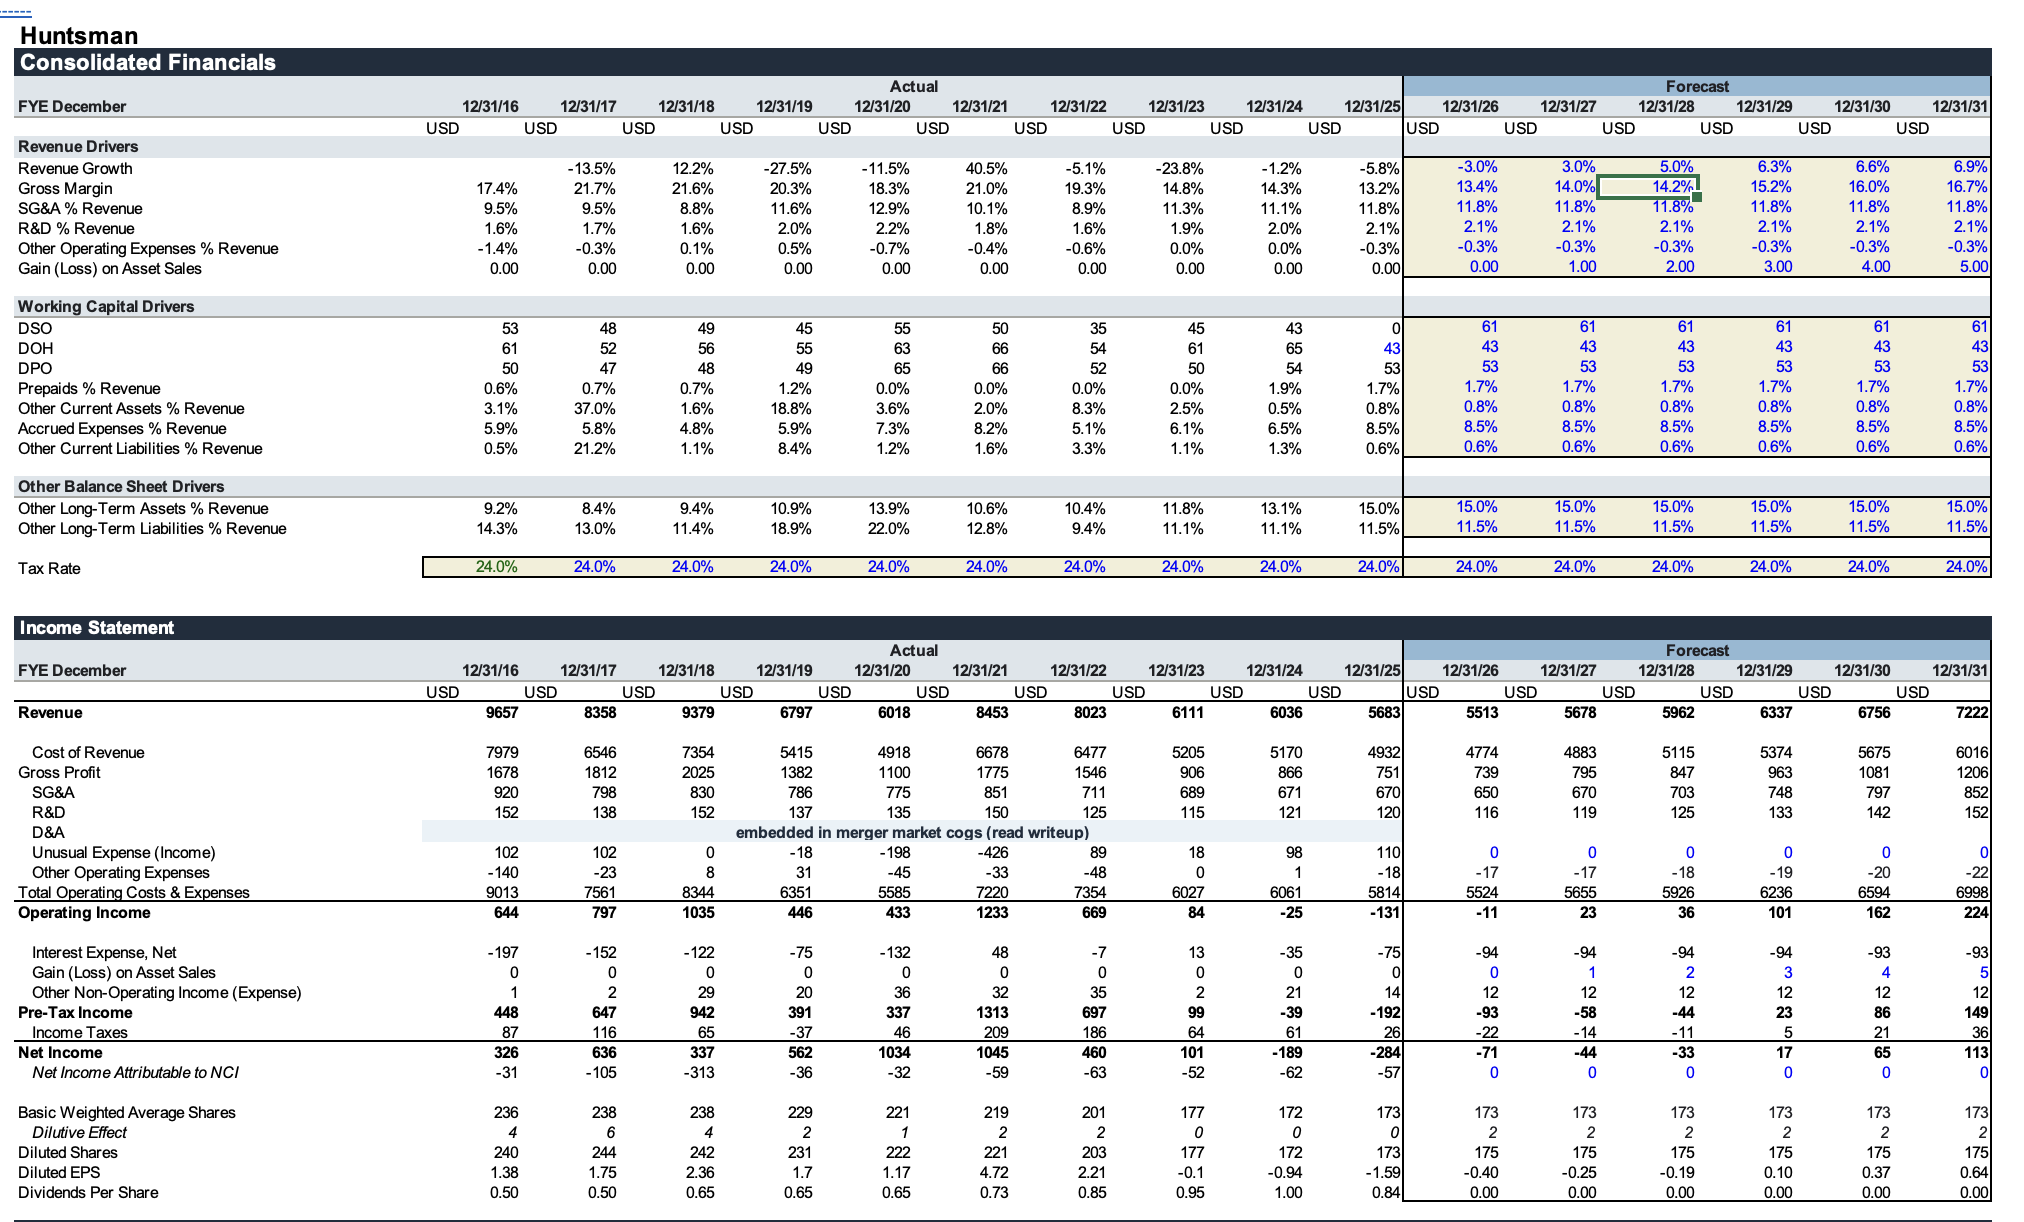
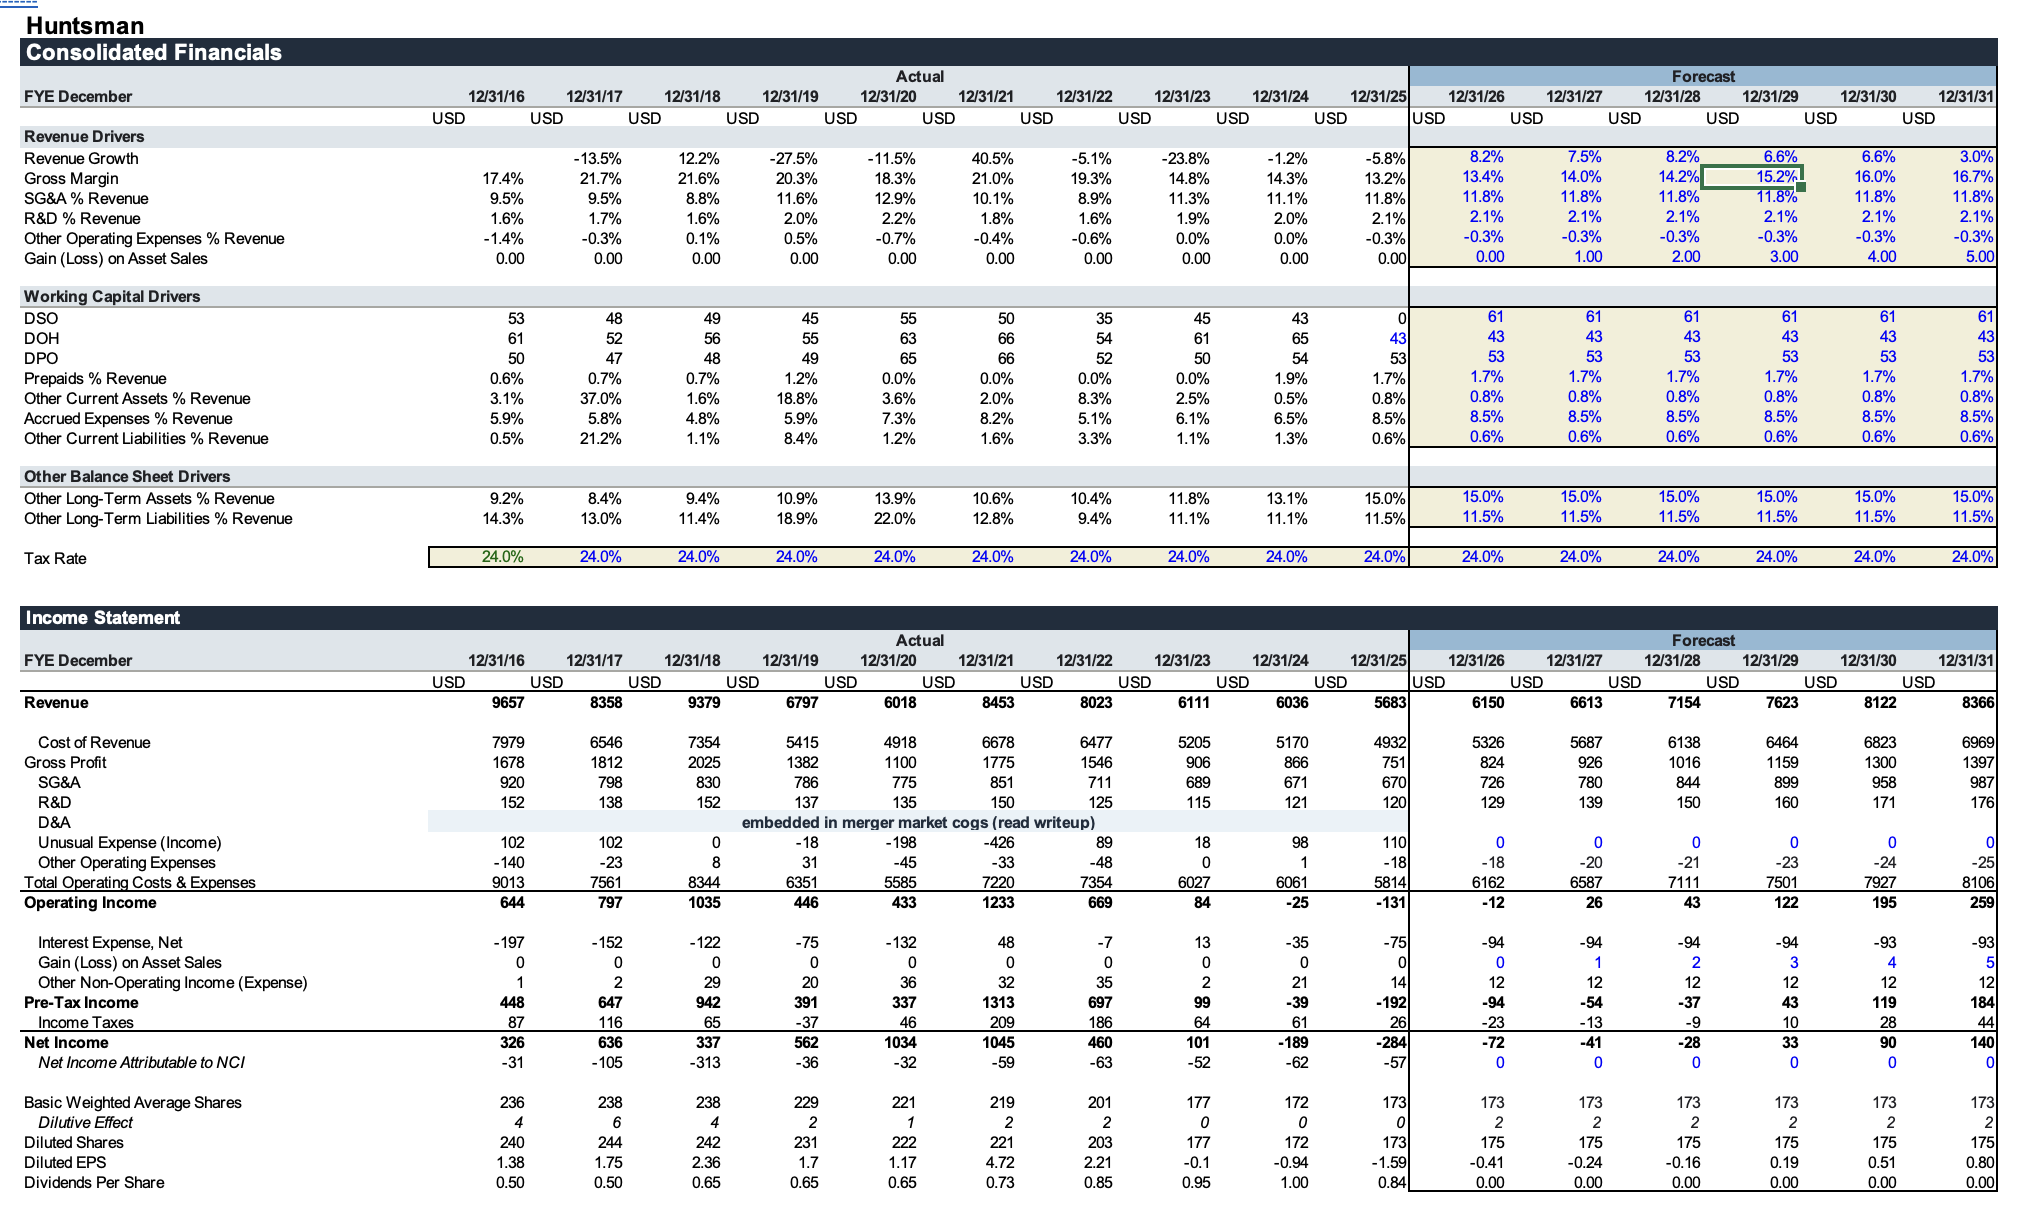
Update MEC and Olin Huntsman analysis

Changed region(s): [[0.0, 0.0, 0.996, 1.0]]

diff --git a/olin-huntsman-merger.html b/olin-huntsman-merger.html
@@ -59,7 +59,7 @@
           <h2 class="article-subhead">Olin/Huntsman Standalones</h2>
           <p>Olin is an upstream chemical company that operates 3 core business drivers. Epoxy, chlor alkali / vinyl products, and Winchester, which is an ammunition company.</p>
 
-          <p>My assumptions and reasoning follows. For Olin revenue, I expect a moderate revenue increase in 2026, as pricing power has gone up for Olin due to a growing demand in local manufacturing. In Europe, Olin is one of the only integrated epoxy producers left. In the US, increased transatlantic transportation costs have helped the epoxy arm substantially. Furthermore, Asian manufacturers rely on oil in order to make chlor alkali products. It is worth noting that chlor alkali production coproduces two chemicals in fixed proportions: chlorine and caustic soda. Due to an uptick in oil prices and trade enforcement preventing Asian producers from accessing discounted sanctioned crude, annual global vinyl capacity has decreased 6-9% on the market in Q1 2026 (and subsequently chlorine has seen a hit as well). Asian producers are also reliant on naphtha (derived from oil) as an input, while Olin uses natural gas, further creating a competitive advantage. I don’t have much to comment on about Winchester as it is relatively stable, however they continue to benefit from government contracts.</p>
+          <p>My assumptions and reasoning follows. For Olin revenue, I use management’s transaction forecasts, which project growth in 2026, a slight decline in 2027, and renewed growth from 2028 through 2031. In Europe, Olin is one of the only integrated epoxy producers left. In the US, increased transatlantic transportation costs have helped the epoxy arm substantially. Furthermore, Asian manufacturers rely on oil in order to make chlor alkali products. It is worth noting that chlor alkali production coproduces two chemicals in fixed proportions: chlorine and caustic soda. Due to an uptick in oil prices and trade enforcement preventing Asian producers from accessing discounted sanctioned crude, annual global vinyl capacity has decreased 6-9% on the market in Q1 2026 (and subsequently chlorine has seen a hit as well). Asian producers are also reliant on naphtha (derived from oil) as an input, while Olin uses natural gas, further creating a competitive advantage. I don’t have much to comment on about Winchester as it is relatively stable, however they continue to benefit from government contracts.</p>
 
           <p>In terms of margins, Olin’s management is incredibly optimistic. While I do agree there is a margin increase primarily from an increase in pricing, I am hesitant about Olin’s asset reliability. A chemical plant in Texas cost the company millions in revenue after an unplanned outage in May 2026. Management promises less reliance on contractors, a more efficient workforce, and preventative measures to stop equipment failure before they occur. Furthermore, they are reducing capacity and even closing plants to reduce overcapacity. It has been borrowing cash to finance needs, while already being highly levered at 5.0x net debt / adjusted EBITDA. Finally, management initiated massive buybacks in 2023 and 2024, prioritizing shareholder returns over debt paydowns. In retrospect this was a foolish decision... their stock price has gone down 60% in 5 years, they have a crushing debt expense, and just partook in an all-stock merger. Because of all these factors, I expect margins to artificially increase the most in 2026 due to market demand, while slowly tapering off to an amount close to FYE 2024.</p>
           <div class="figure-block figure-full-bleed">
@@ -68,7 +68,7 @@
 
           <p>On the other hand, Huntsman specializes in polyurethanes (used for houses and cars), specialized products for the industry, and advanced materials. Advanced materials are the most interesting arm, as they are used for electric vehicles, aerospace, etc.</p>
 
-          <p>The case for Huntsman revenue increasing is less bullish than Olin. Polyurethane is still produced relatively cheaply as countries like China have flooded the market in recent years. Wanhua Chemical especially, which is a state-backed Chinese giant that has been flooding the market with cheap supply. Although a recent antidumping policy has hurt Wanhua imports, they still impose a massive threat to Huntsman. Furthermore, demand is dependent on US housing market sales. Although advanced materials have seen the most growth and will continue to do so, the other two arms won’t generate a ton of momentum. Cutting costs is more compelling. Huntsman is already cutting costs, on track to close seven sites in Europe, and cut dividends in Q3 of 2025. Management has stated their desire to cut costs and so far nothing has gotten in the way of that, while the cost-cutting plan installed in 2024 has largely gone to plan. Therefore, I project a strong increase in gross margin. Last bit worth mentioning is that this company is also highly levered - 5.4x EV / adjusted EBITDA.</p>
+          <p>For Huntsman revenue, I use the Olin management-adjusted Huntsman forecasts disclosed in the merger proxy through 2030, followed by my own assumption of 3% growth in 2031. Polyurethane is still produced relatively cheaply as countries like China have flooded the market in recent years. Wanhua Chemical especially, which is a state-backed Chinese giant that has been flooding the market with cheap supply. Although a recent antidumping policy has hurt Wanhua imports, they still impose a massive threat to Huntsman. Furthermore, demand is dependent on US housing market sales. Although advanced materials have seen the most growth and will continue to do so, the other two arms won’t generate a ton of momentum. Cutting costs is more compelling. Huntsman is already cutting costs, on track to close seven sites in Europe, and cut dividends in Q3 of 2025. Management has stated their desire to cut costs and so far nothing has gotten in the way of that, while the cost-cutting plan installed in 2024 has largely gone to plan. Therefore, I project a strong increase in gross margin. Last bit worth mentioning is that this company is also highly levered - 5.4x EV / adjusted EBITDA.</p>
           <div class="figure-block figure-full-bleed">
             <img src="assets/projects/olin-huntsman-merger/huntsman-standalone.png" alt="Huntsman standalone consolidated financials from the merger workbook" />
           </div>

diff --git a/mec-lbo.html b/mec-lbo.html
@@ -38,6 +38,8 @@
           <a class="back-link" href="index.html#projects">← Back to projects</a>
           <h1 class="article-title">Evaluating Data Center Infrastructure Manufacturers as Take-Private Targets</h1>
 
+          <p class="spreadsheet-callout">Following MEC’s Q3 and the AI selloff, shares sharply declined. Management reduced EBITDA guidance from $56M to $50M and revised free cash flow guidance from positive $11M to negative $11M. The development reinforces the risk of the LBO: strong end-market demand does not necessarily translate into near-term cash generation. Reduced cash flow and continued capital requirements may constrain debt repayment. My original model remains an old analysis based on entry assumptions (I did this a week ago) rather than an updated valuation following Q3.</p>
+
           <p>Mayville Engineering Company (MEC). I’m currently in the thick of recruiting season but have seen a general trend among Industrials bankers I’ve talked to – anything related to Data Centers is a hot spot for M&amp;A activity. Why mine gold when you can sell the shovel?</p>
 
           <div class="figure-block mec-opening-figure">
